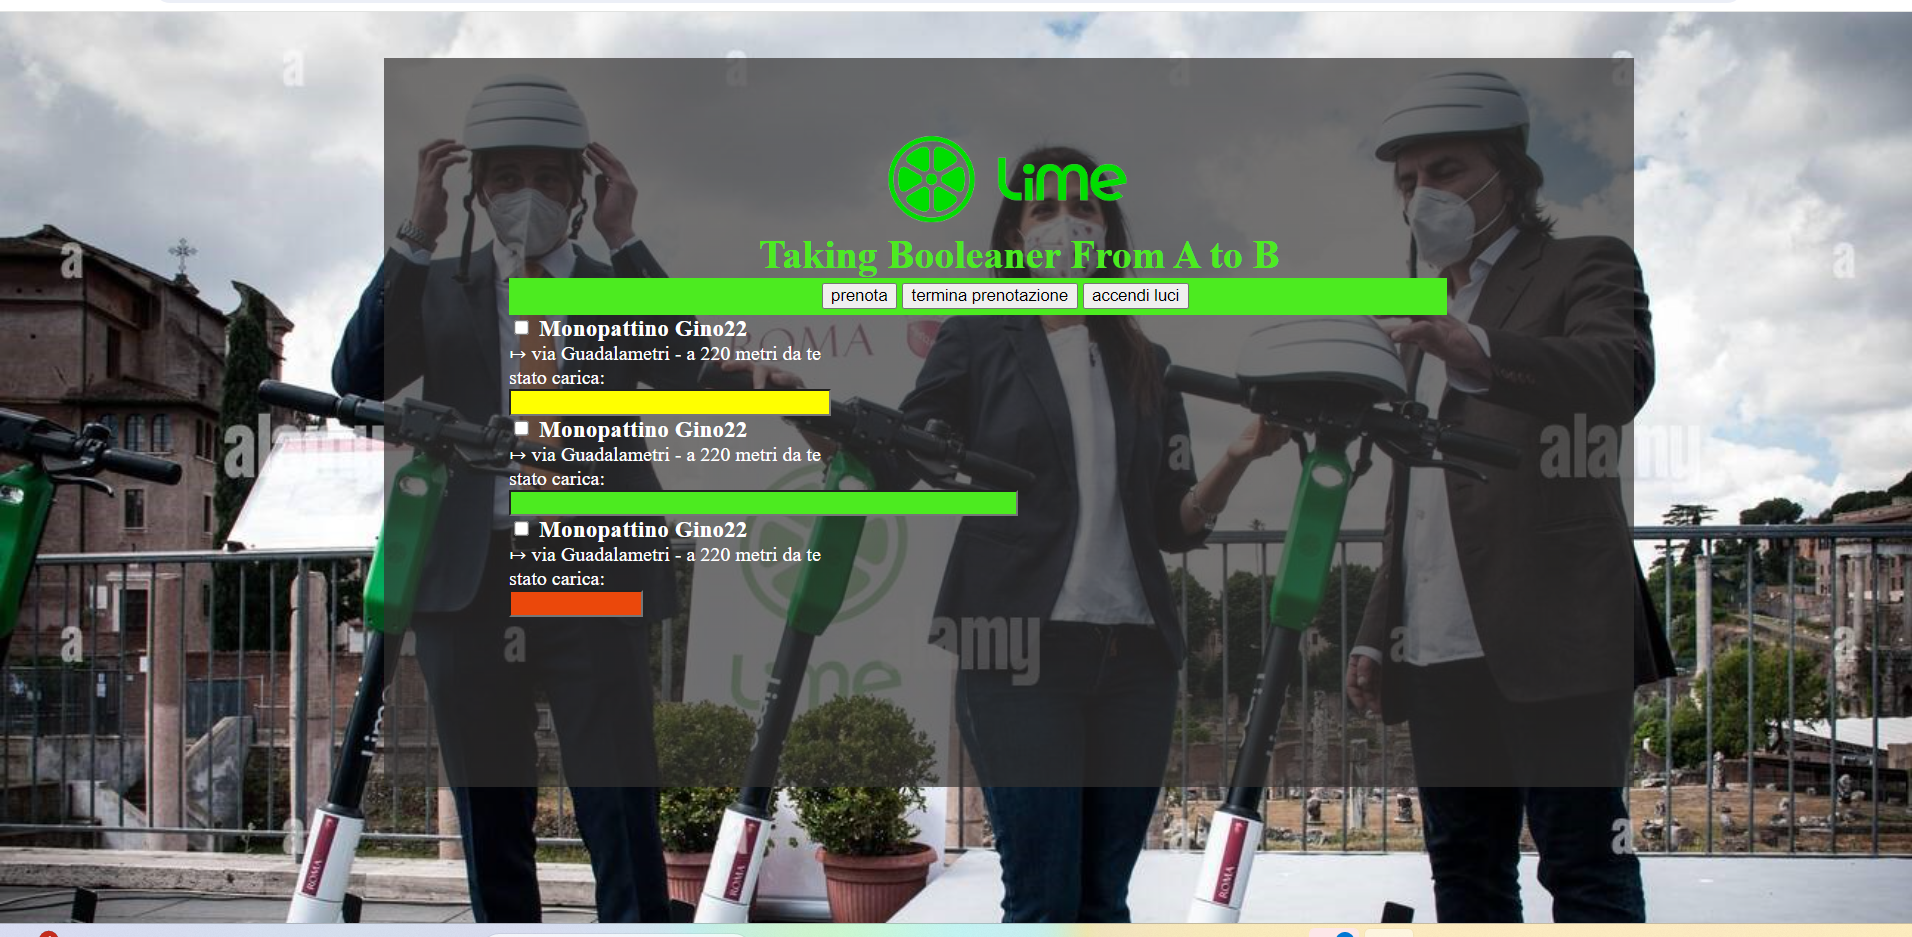
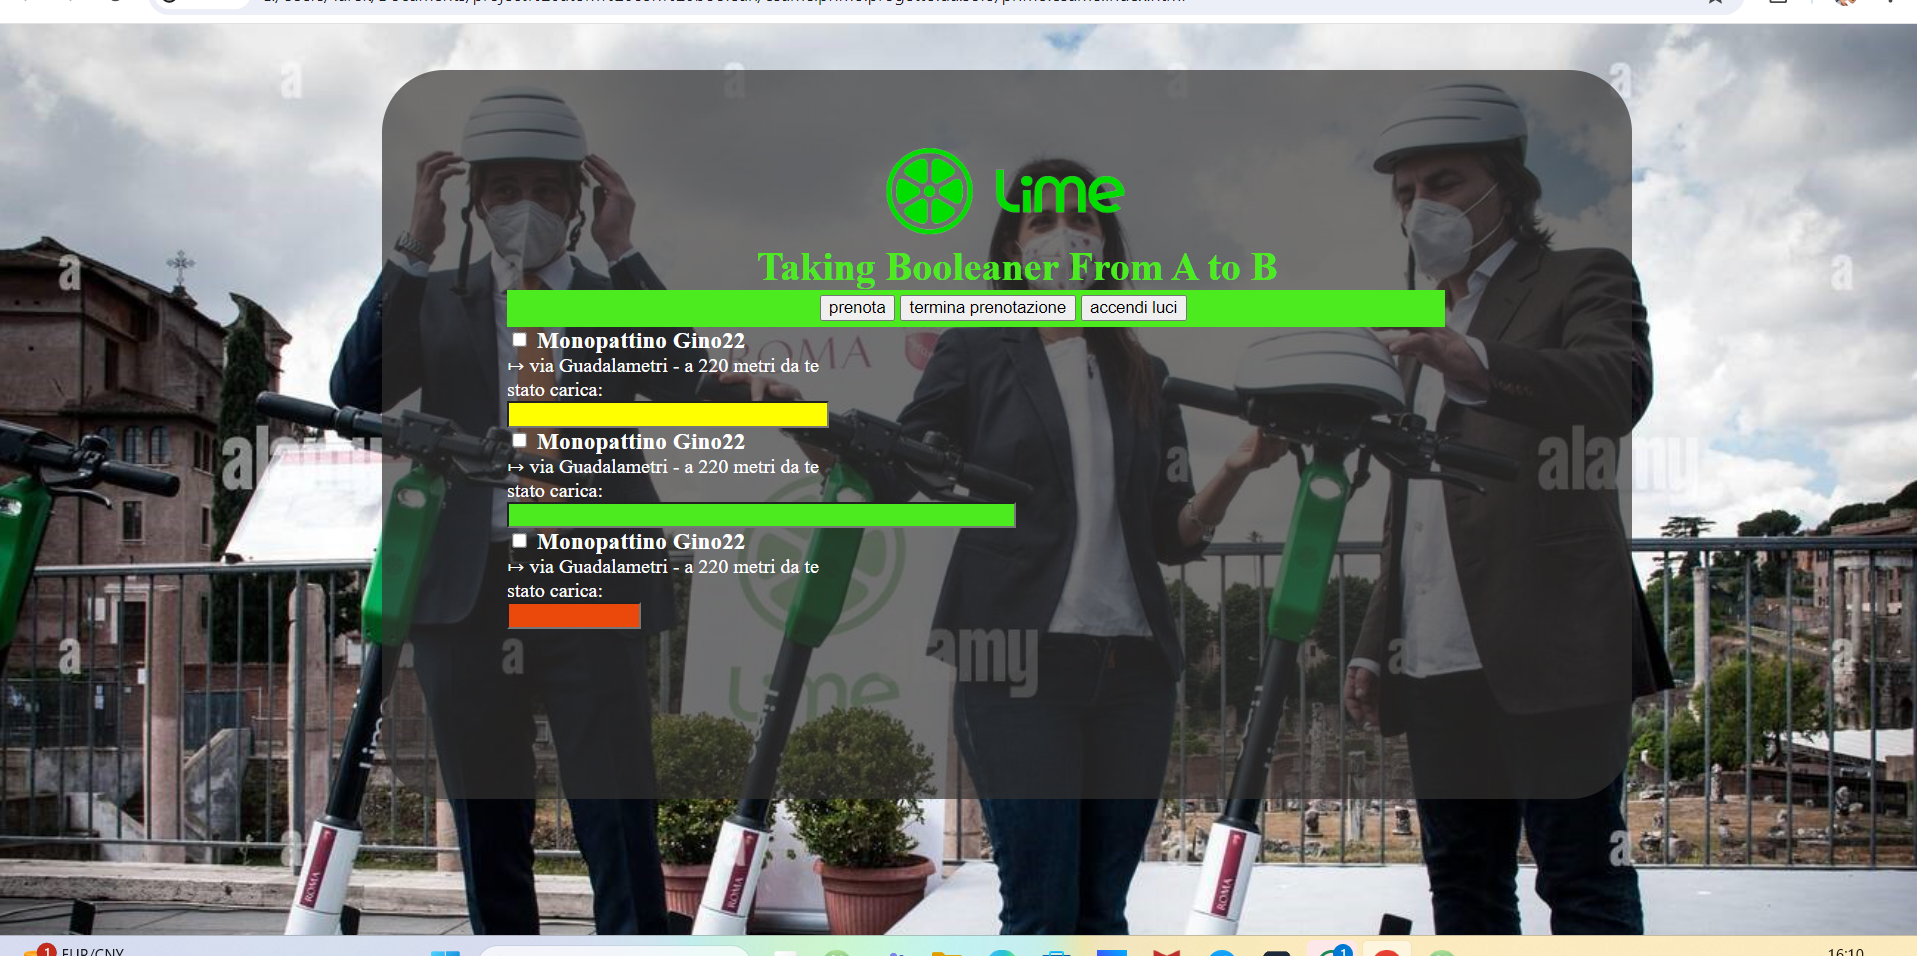
Add files via upload

diff --git a/primo.esame.style.css b/primo.esame.style.css
@@ -11,7 +11,7 @@ body{
   top: 5%;
   width: 1000px;
   height: 80%;
-
+  border-radius: 50px 50px;
   display: inline-block;
   border-spacing: inherit;
   background: linear-gradient(90deg,
